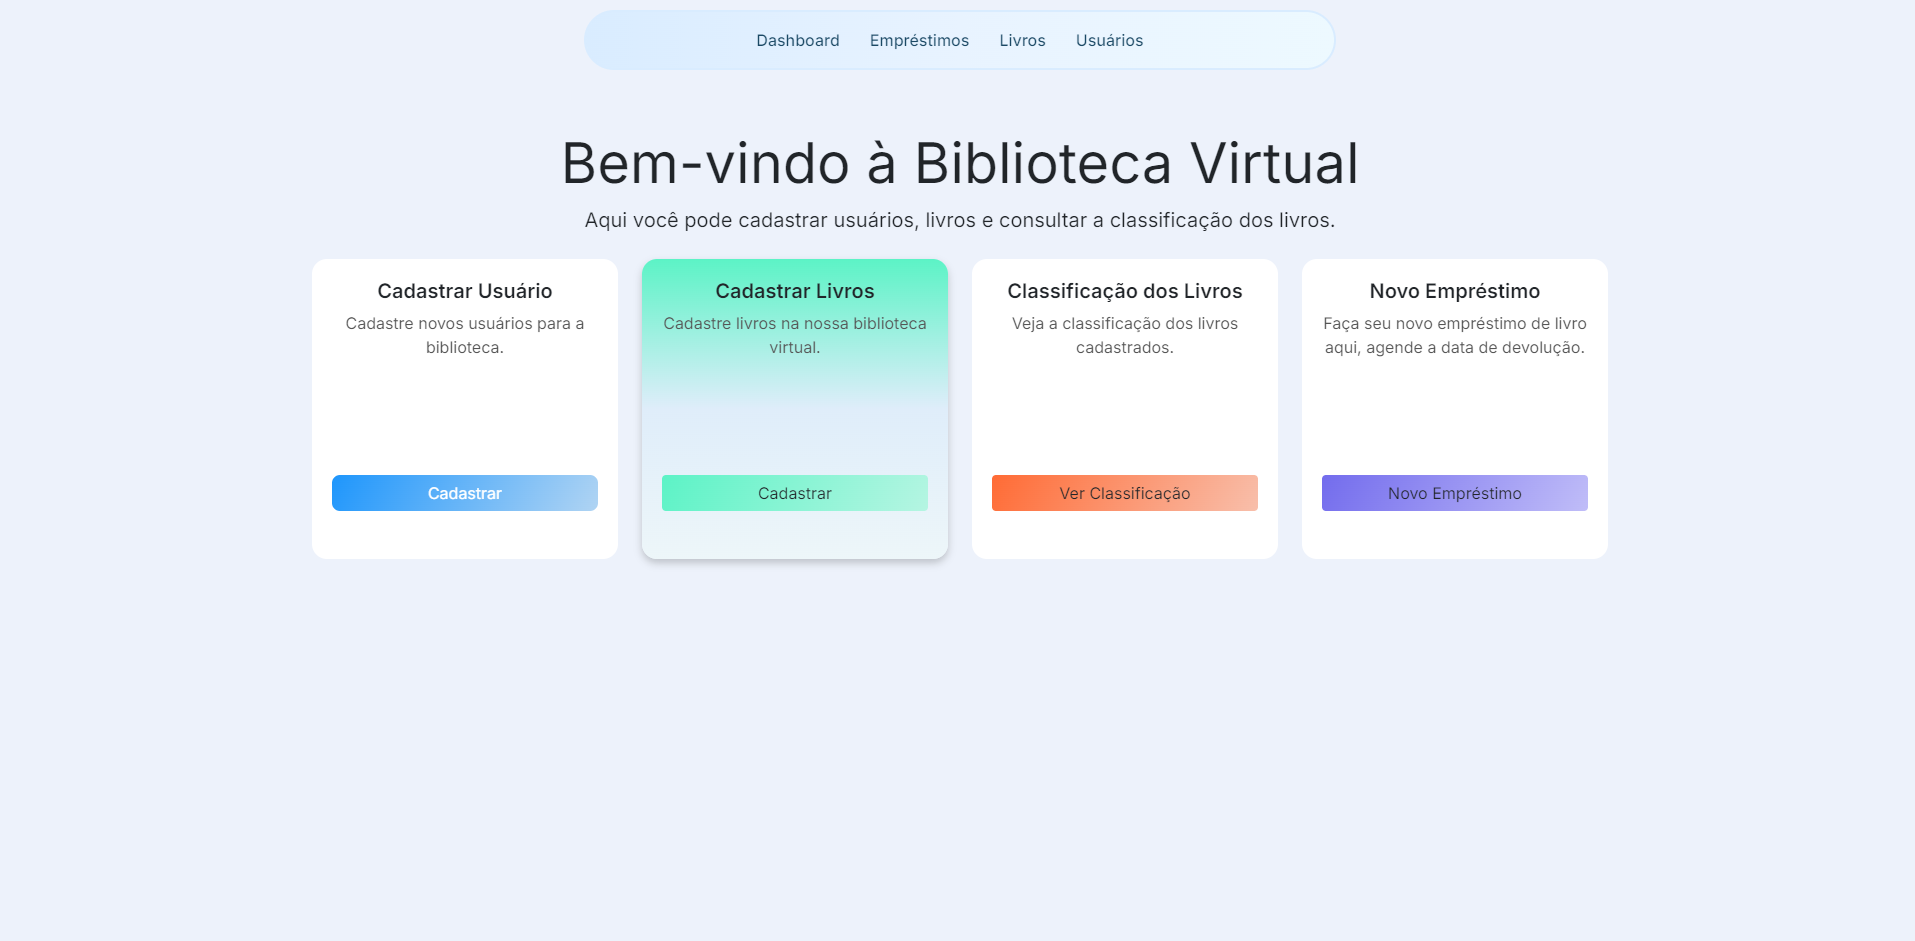
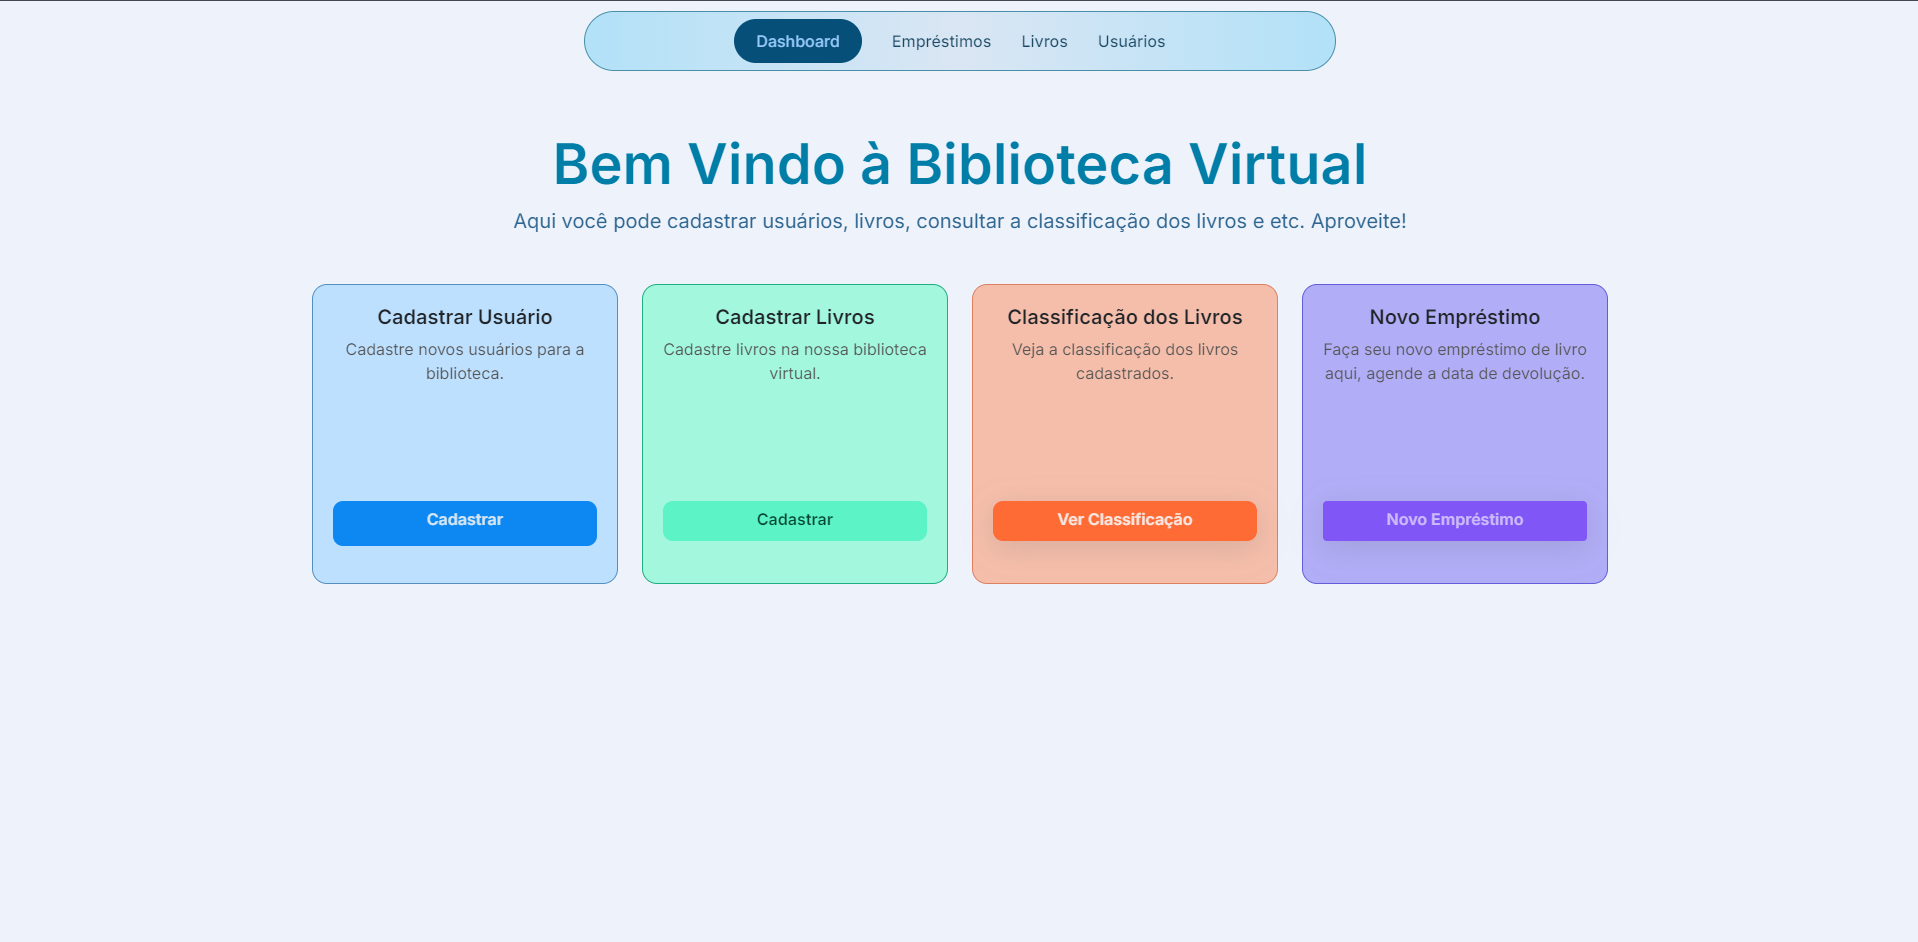
Ajustes em views e add dashboard png

Changed region(s): [[0.154, 0.2774, 0.8627, 0.6472], [0.2773, 0.1541, 0.7394, 0.2465], [0.2773, 0.0, 0.7086, 0.0925]]

diff --git a/resources/views/layouts/app.blade.php b/resources/views/layouts/app.blade.php
@@ -28,9 +28,10 @@
             transition: all 0.24s ease;
         }
 
-        .app-bar a:hover {
-            background-color: #1b4965;
-            padding: 10px 20px;
+        .app-bar a:hover,
+        .app-bar a.active {
+            background-color: #054f79;
+            padding: 10px 22px;
             border-radius: 40px;
             color: #95c7f7;
             transition: all .24s ease-in;
@@ -68,10 +69,10 @@
 <body>
     <nav class="app-bar">
         <div class="app-bar-content">
-            <a href="{{ route('dashboard') }}">Dashboard</a>
-            <a href="{{ route('loans.index') }}">Empréstimos</a>
-            <a href="{{ route('books.index') }}">Livros</a>
-            <a href="{{ route('users.index') }}">Usuários</a>
+            <a href="{{ route('dashboard') }}"  class="{{ request()->routeIs('dashboard') ? 'active' : '' }}">Dashboard</a>
+            <a href="{{ route('loans.index') }}"  class="{{ request()->routeIs('loans.index') ? 'active' : '' }}">Empréstimos</a>
+            <a href="{{ route('books.index') }}"  class="{{ request()->routeIs('books.index') ? 'active' : '' }}">Livros</a>
+            <a href="{{ route('users.index') }}"  class="{{ request()->routeIs('users.index') ? 'active' : '' }}">Usuários</a>
         </div>
     </nav>
 

diff --git a/resources/views/welcome.blade.php b/resources/views/welcome.blade.php
@@ -4,7 +4,7 @@
 
 @section('content')
     <div class="text-center mt-5">
-        <h1 class="display-4">Bem-vindo à Biblioteca Virtual</h1>
+        <h1 class="display-4">Bem Vindo à Biblioteca Virtual</h1>
         <p class="lead">Aqui você pode cadastrar usuários, livros, consultar a classificação dos livros e etc. Aproveite!</p>
 
         <!-- Usando o grid do Bootstrap para tornar os cards responsivos -->
